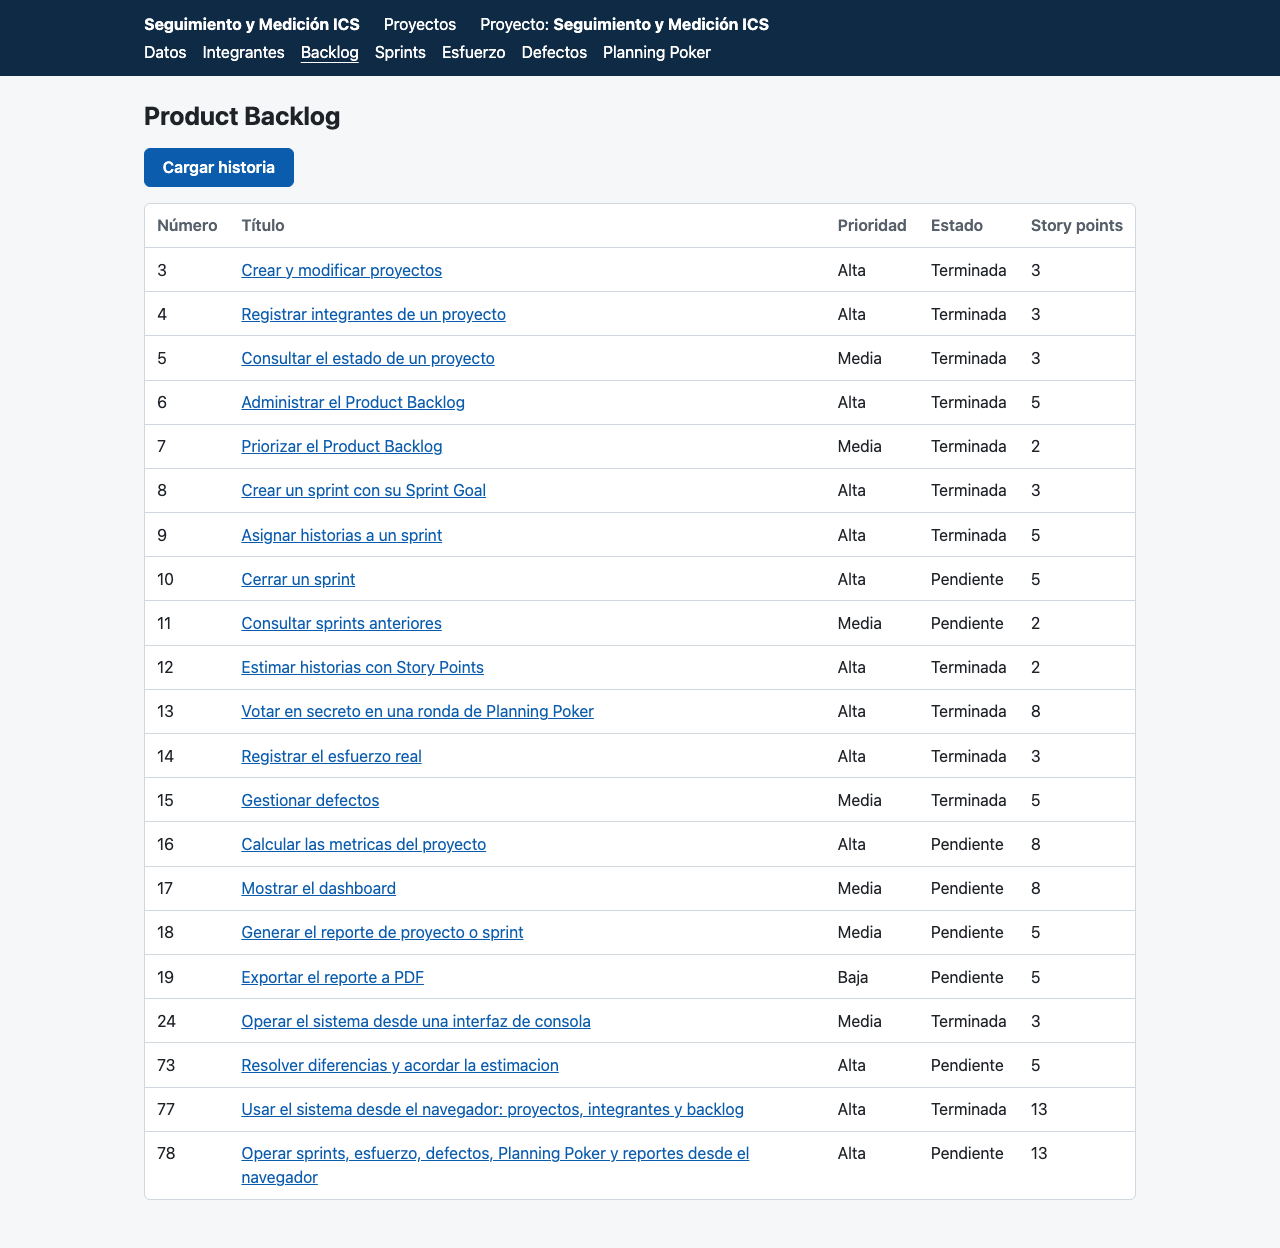
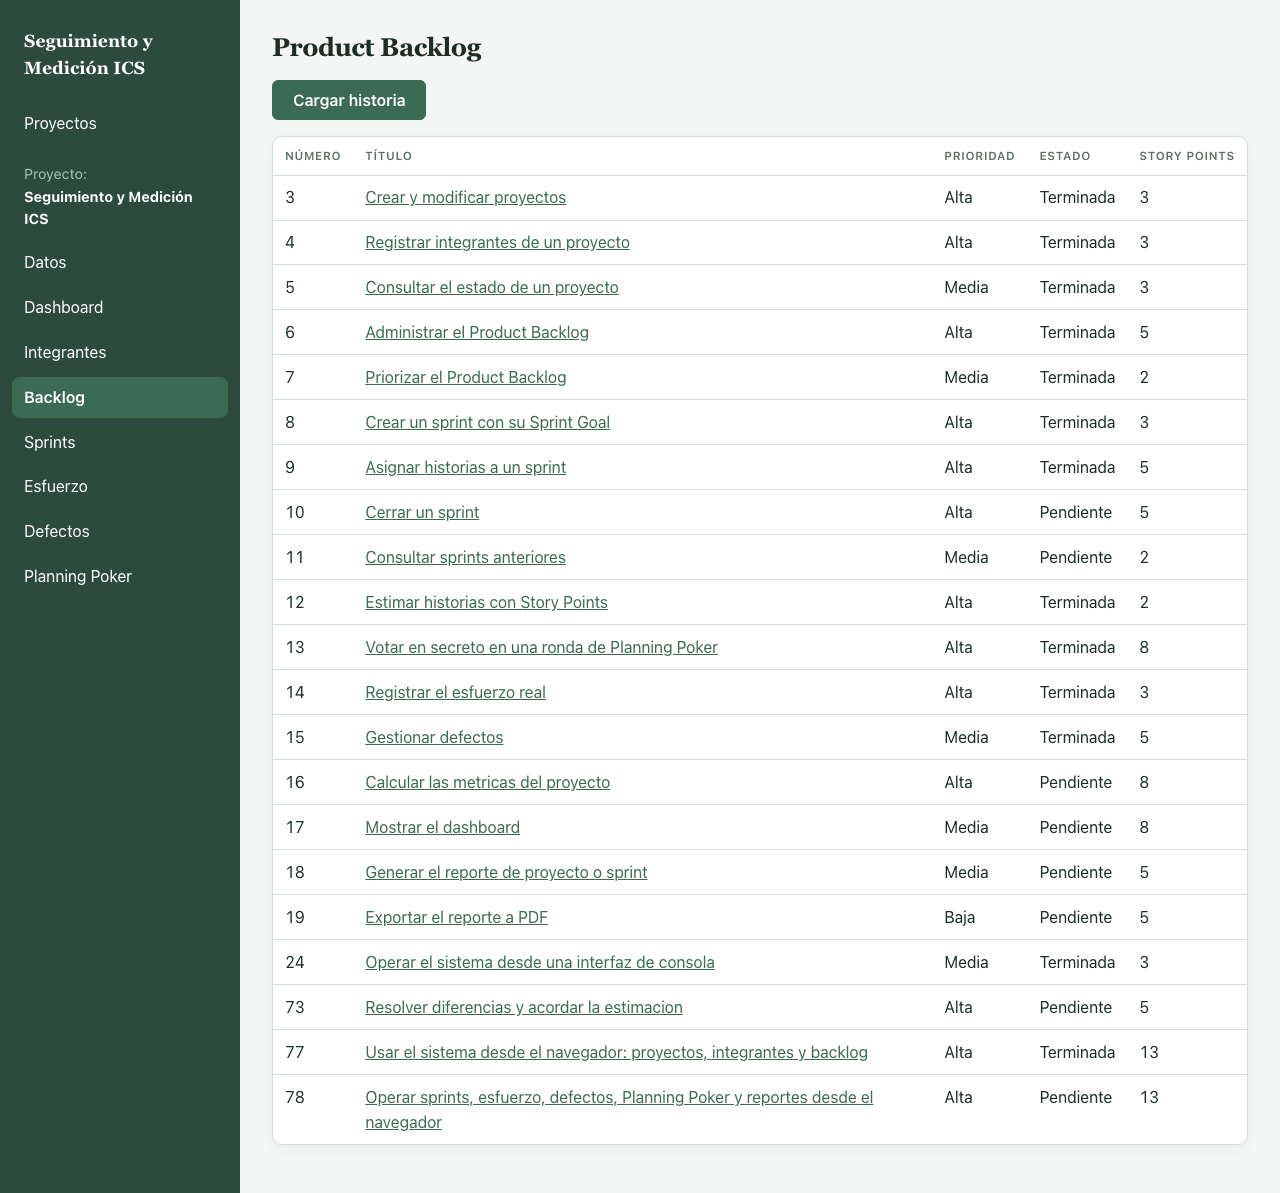
docs: el dashboard en el guion de la demo, y las capturas con el diseño nuevo
guion-de-demo.md: el paso 6 abre el dashboard después de cerrar el
Sprint 3 (86 de 109 story points, 18 de 21 historias, velocidad 29 como
promedio de 6, 52 y 28) y dice qué contestar si preguntan por la
velocidad o las horas del Sprint 3 en la demo. El reporte y el PDF
quedan marcados hasta que se puedan abrir desde la web.

capturas/: las 17 rehechas con el diseño del PR #214 sobre una base nueva
con los datos de demo, y la 18 del dashboard. La 14 muestra el cierre con
el 28/10 y las cinco historias terminadas, como dice el guion.

diff --git a/docs/demo/guion-de-demo.md b/docs/demo/guion-de-demo.md
@@ -4,8 +4,9 @@ Un recorrido de 8 a 10 minutos por el sistema con nuestro propio proyecto, carga
 [datos de demo](README.md). Cada paso dice qué abrir, qué hacer y qué contar. Las capturas
 de cada pantalla están en [capturas/](capturas).
 
-Los lugares del **dashboard (#17)**, del **reporte (#18)** y del **PDF (#19)** están marcados:
-se completan cuando esas historias entren a `dev`.
+El **dashboard (#17)** ya está en el recorrido. Los lugares del **reporte (#18)** y del **PDF
+(#19)** están marcados: se completan cuando se puedan abrir desde la web (la #19 y lo que falta
+de la #78).
 
 ## Antes de presentar
 
@@ -79,7 +80,8 @@ se completan cuando esas historias entren a `dev`.
     la review). El formulario acepta una fecha posterior al fin del sprint: si se deja la de
     hoy, el sprint queda cerrado el día de la presentación.
   - Se marcan **solo las historias que de verdad se terminaron** (mirar el tablero antes de
-    presentar) y se confirma.
+    presentar) y se confirma. En la captura están las cinco terminadas al 30/10: todas menos
+    la #78.
   - **Contar:** "Antes de cerrar, el sistema dice cuáles quedan completadas y cuáles vuelven
     al Product Backlog. Un sprint cerrado no se puede volver a abrir."
 
@@ -96,14 +98,25 @@ se completan cuando esas historias entren a `dev`.
 - **Entrar** al defecto 60, *Menor*, y volver. ([17](capturas/17-defecto.png))
 - **Filtrar** por la severidad *Mayor*: quedan el 59 y el 108.
 
-> **[Dashboard — #17]** Cuando entre la #17: abrir el dashboard y mostrar los gráficos de la
-> velocidad, las horas estimadas contra las reales y los defectos. Tiempo: 1 minuto. Captura:
-> `capturas/18-dashboard.png`.
+## 6. El dashboard, el reporte y el PDF
 
-## 6. El reporte y el PDF
+- **Abrir** *Dashboard* (1 minuto). ([18](capturas/18-dashboard.png))
+  - **Contar:** "El dashboard junta todo lo que medimos. Con el Sprint 3 recién cerrado, el
+    proyecto lleva 86 de 109 story points y 18 de 21 historias completadas. La velocidad es
+    el promedio de los tres sprints cerrados: 6, 52 y 28, que da unos 29."
+  - **Mostrar** los gráficos: los story points planificados contra los completados, las horas
+    estimadas contra las reales, los defectos y la velocidad de cada sprint. Con *Ver los
+    valores* se ven en una tabla.
+  - *Sprint en curso* dice que no hay ninguno, porque el Sprint 3 se acaba de cerrar.
+  - Si preguntan por el Sprint 3: en la demo da 28 y no 33 como en su review, porque la #73 se
+    adelantó y no está asignada en estos datos. Y las horas reales son solo las de los dos
+    primeros sprints (69,3 h): las del Sprint 3 no se cargan en la demo. La desviación de cada
+    sprint está en su acta de review.
 
-> **[Reporte — #18]** Cuando entre la #18: abrir el reporte del proyecto y el del Sprint 2, y
-> mostrar sus secciones. Captura: `capturas/19-reporte.png`.
+
+> **[Reporte — #18]** La #18 ya está en `dev`; cuando el reporte se pueda abrir desde la web:
+> abrir el del proyecto y el del Sprint 2, y mostrar sus secciones. Captura:
+> `capturas/19-reporte.png`.
 >
 > **[PDF — #19]** Cuando entre la #19: descargar el reporte en PDF y abrirlo. Captura:
 > `capturas/20-pdf.png`.

diff --git a/docs/demo/README.md b/docs/demo/README.md
@@ -27,11 +27,14 @@ go run ./cmd/web -datos /tmp/demo.json
 ## Para la presentación
 
 - [guion-de-demo.md](guion-de-demo.md): el recorrido de 8 a 10 minutos, paso a paso.
-- [capturas/](capturas): una captura de cada pantalla con estos datos, a 1280 de ancho, para
-  el informe y la presentación. Solo muestran estados que existieron: estos datos, la ronda 2
-  de la #77 antes de que votara Juliana Bustos (el 26/10) y el Sprint 3 con el goal, las
-  fechas y el Sprint Backlog de su acta de planning, abierto. Las del dashboard (#17), el
-  reporte (#18) y el PDF (#19) se suman cuando esas historias estén en `dev`.
+- [capturas/](capturas): una captura de cada pantalla con estos datos, a 1280 de ancho y con
+  el diseño nuevo de la web (PR #214), para el informe y la presentación. Solo muestran estados
+  que existieron: estos datos, la ronda 2 de la #77 antes de que votara Juliana Bustos (el
+  26/10), el Sprint 3 con el goal, las fechas y el Sprint Backlog de su acta de planning,
+  abierto, y su cierre con la fecha de fin del sprint (28/10) y las cinco historias que la
+  review cuenta como terminadas. La del dashboard (#17) es
+  la de después de ese cierre, como en el guion. Las del reporte (#18) y el PDF (#19) se suman
+  cuando se puedan abrir desde la web.
 
 ## Qué tiene
 
